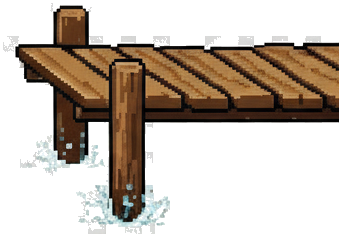
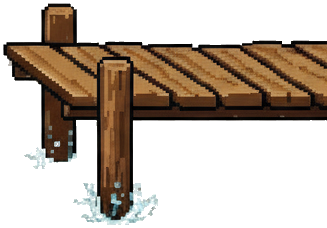
Swap player tower to new art, drop enemy pier's duplicate tower legs, fix rockthrower facing
Follow-up to the art refresh, from playing it live:

- Player tower (drawPlatform) now uses the Firefly-generated mini-tower
  from the same asset batch as the skins/pier, replacing the original
  concept-art tower -- which still had visible snow/mountain ghosting
  and the earlier ghost-feet crop notch baked in. Re-anchored to the new
  art's deck surface (220,142), verified flush at both wave-height
  extremes (wave 1 and wave 5).
- Dropped the enemy pier's reused tower-leg crop (miner_pier_legs.png,
  deleted) entirely. It was sourced from the old tower art being
  retired, and with a real tower now back on the player's side, it read
  as a confusing second "fishing tower" on the right of the screen --
  exactly what was flagged. The plank alone carries the new art fine.
- Flipped rockthrower.png horizontally -- it was throwing away from the
  player instead of at them. Checked all four skins against source art;
  only rockthrower was mirrored wrong, so fixed at the image level
  rather than adding per-skin logic to drawMinerSkin().
- Also caught a real defect while re-examining the tower closely: the
  net mesh holes had leftover white haze instead of clean transparency,
  from the checkerboard-removal tolerance being too strict for pixels
  near soft shadows inside small enclosed cells. Loosened and
  reprocessed; checked the character skins for the same issue and found
  them unaffected.

Found but not fixed: at wave 5 the player figure renders mostly above
[…]

Changed region(s): [[0.0, 0.0, 1.0, 1.0], [0.9786, 0.2763, 1.0, 0.307]]

diff --git a/claimjumper/index.html b/claimjumper/index.html
@@ -127,15 +127,10 @@ function waveBackdrop(){
 // Loaded independently, same graceful-fallback spirit as SKINS/WAVE_BGS: if
 // either fails to load, drawFigure/drawPlatform fall back to their existing
 // rendering rather than breaking.
-const PLAYER_ART = { tower: null, pier: null, pierLegs: null };
+const PLAYER_ART = { tower: null, pier: null };
 (function loadPlayerArt(){
   const t = new Image(); t.onload = () => { PLAYER_ART.tower = t; }; t.src = 'assets/player_tower.png';
   const p = new Image(); p.onload = () => { PLAYER_ART.pier = p; }; p.src = 'assets/miner_pier.png';
-  // The pier reference photo only showed a bare post -- cropped from the
-  // SAME tower art (a net-braced leg section) to give it real structural
-  // weight instead of reading as a thin stick, per direction ("get it
-  // looking more like the fishing tower").
-  const pl = new Image(); pl.onload = () => { PLAYER_ART.pierLegs = pl; }; pl.src = 'assets/miner_pier_legs.png';
 })();
 
 // Six purpose-made angle-bucket poses for the player figure (superseding
@@ -1372,20 +1367,12 @@ function drawMinerPier(){
     ctx.translate(G.pierCx, WATER_Y);
     ctx.rotate(G.pierRot);
     const postLocalX = -anchorX * scale, postLocalY = -anchorY * scale;
-    if (PLAYER_ART.pierLegs){
-      // Reused net-braced leg section from the tower art, continuing the
-      // front post down toward the water so the pier reads as a real
-      // structure instead of a bare stick -- neither pier reference photo
-      // (old or new) showed netted bracing of its own.
-      const legs = PLAYER_ART.pierLegs;
-      const legsScale = 0.28;
-      const legsAnchorX = 90, legsAnchorY = 0;
-      const postBottomX = 90, postBottomY = 233; // where the front post exits this crop
-      const attachX = postLocalX + postBottomX * scale;
-      const attachY = postLocalY + postBottomY * scale;
-      ctx.drawImage(legs, attachX - legsAnchorX * legsScale, attachY - legsAnchorY * legsScale,
-        legs.width * legsScale, legs.height * legsScale);
-    }
+    // v7.2: dropped the reused net-braced tower-leg section that used to
+    // continue the post down toward the water. It was cropped from the
+    // OLD player tower art being retired this pass, and reading as a
+    // second, smaller "fishing tower" sitting on the enemy side of the
+    // screen was exactly the visual confusion flagged -- the player's
+    // tower should be the only tower-style structure on screen.
     ctx.drawImage(img, postLocalX, postLocalY, img.width * scale, img.height * scale);
     ctx.restore();
     return;
@@ -1401,15 +1388,18 @@ function drawMinerPier(){
   }
 }
 function drawPlatform(oy){
-  // Real fishing-tower reference art (the design predates this build and
-  // should have been the basis from the start), stretched vertically only
-  // so its foot-anchor point lands at `oy` and its base reaches down near
-  // the water regardless of the current wave's platform height -- same
-  // "stack/stretch to fit" idea as the old trestle tiling below, just with
-  // one full image instead of a repeated bay unit.
+  // v7.2: replaced the original concept-art tower (photoreal-ish
+  // rendering, snow/mountain scene baked into parts of it, and a known
+  // ghost-feet crop artifact) with the Firefly-generated tower from the
+  // same batch as the skins/pier art, for one consistent art style
+  // throughout. Stretched vertically only so its foot-anchor point lands
+  // at `oy` and its base reaches down near the water regardless of the
+  // current wave's platform height -- same "stack/stretch to fit" idea
+  // as the old trestle tiling below, just with one full image instead of
+  // a repeated bay unit.
   if (PLAYER_ART.tower){
     const img = PLAYER_ART.tower;
-    const anchorX = 289, anchorY = 280; // player's foot point within the art
+    const anchorX = 220, anchorY = 142; // player's foot point within the art (deck surface)
     const targetBottom = 226; // where the submerged base/splash should land
     const scale = (targetBottom - oy) / (img.height - anchorY);
     const dw = img.width * scale, dh = img.height * scale;

diff --git a/claimjumper/DESIGN.md b/claimjumper/DESIGN.md
@@ -472,3 +472,63 @@ Verified via Playwright: all four skins standing on the new pier with no
 float gap, two miners with different skins on screen simultaneously
 (spread across the real `spawnMiner()` tx range) both land correctly on
 the plank, title screen and wave-intro unaffected, no console errors.
+
+## v7.2 follow-up: player tower, pier "second tower", rockthrower facing
+
+User feedback after playing the art-refresh live: the player's own
+tower was still the OLD concept-art image (visible snow/mountain
+ghosting and the earlier ghost-feet crop notch), the enemy pier's
+reused tower-netting-legs read as a confusing second "fishing tower" on
+the right side of the screen, and rockthrower was throwing away from
+the player instead of at them.
+
+**Player tower swapped to the Firefly mini-tower** (the structures-only
+piece extracted alongside the pier plank, previously unused). Same
+"stretch to fit the wave's platform height" mechanism in `drawPlatform()`
+as before, just re-anchored: `anchorX=220, anchorY=142` (the new art's
+deck surface, measured the same empirical way as the pier fixes).
+Verified against a live-spawned player figure at wave 1 and wave 5 (the
+two height extremes) -- feet land flush on the deck at both.
+
+**Dropped the reused tower-leg crop under the enemy pier entirely**
+(`miner_pier_legs.png`, deleted). It was cropped from the OLD tower art
+now being retired, and its whole visual point (bulk up the plank so it
+"looks more like the fishing tower," from much earlier feedback) is
+exactly what read as wrong once there's a real, better-quality tower
+back on the player's side -- two tower-style structures on screen reads
+as two towers, not one tower plus a dock. The plank alone carries the
+new art's own weight fine without it.
+
+**Rockthrower was throwing right; miners must face left** (toward the
+player, who's always on the tower at the left). Checked all four skins
+individually against the source art: archer, prospector, and soldier
+all already aimed/reached left, only rockthrower was mirrored wrong.
+Fixed by flipping `rockthrower.png` itself horizontally (`PIL`
+`FLIP_LEFT_RIGHT`) rather than adding per-skin mirroring logic to
+`drawMinerSkin()` -- simpler, and consistent with how every other skin
+is just drawn as-is with no code-level flip.
+
+**Also caught and fixed a real transparency-conversion defect while
+re-examining the new tower art closely**: the net's mesh holes had a
+faint white haze instead of showing clean through-transparency (visible
+zoomed in, easy to miss at normal scale) -- the checkerboard classifier's
+brightness floor (`min(r,g,b) >= 220`) was too strict for pixels near a
+soft shadow/gradient inside small enclosed net cells, leaving them
+narrowly misclassified as real content. Loosened to `tol<=12, min>=190`
+and reprocessed just the structures image (the only one with fine mesh
+detail at that scale); re-checked the character skins against the same
+issue and found them unaffected (their large solid-color regions don't
+have the same boundary-precision problem). Re-verified with a bright
+non-white checker composite (pink/cyan, not the misleading white the
+Read tool defaults to) before and after.
+
+**Found, not fixed**: at wave 5 (the tallest platform, `obsY=15`,
+close to the very top of the canvas), the player figure renders mostly
+or entirely above the visible canvas top edge. Confirmed via git history
+that this happens identically with the OLD tower art too -- it's a
+pre-existing framing issue unrelated to today's art swap (the player
+figure's position is computed independently of which tower image is
+used), not a regression. Flagged for a future pass rather than fixed
+here, since it's out of scope for an art-consistency request and would
+need its own investigation (cap wave height, shift the camera, or resize
+the canvas).
